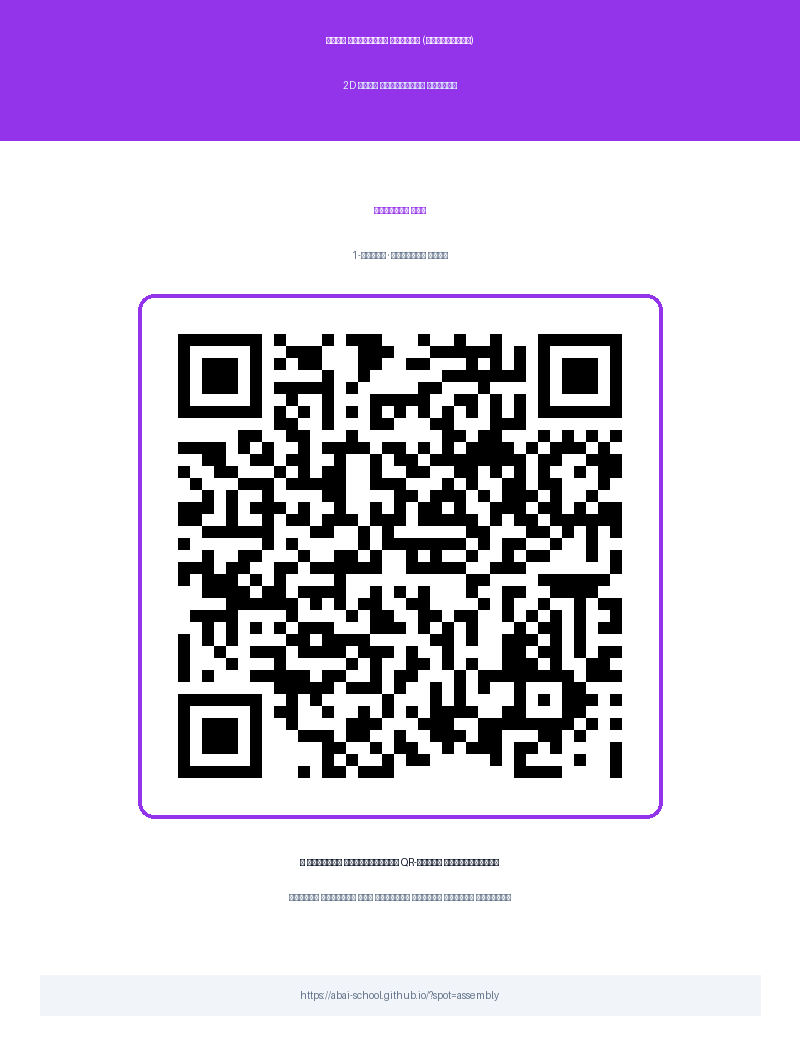
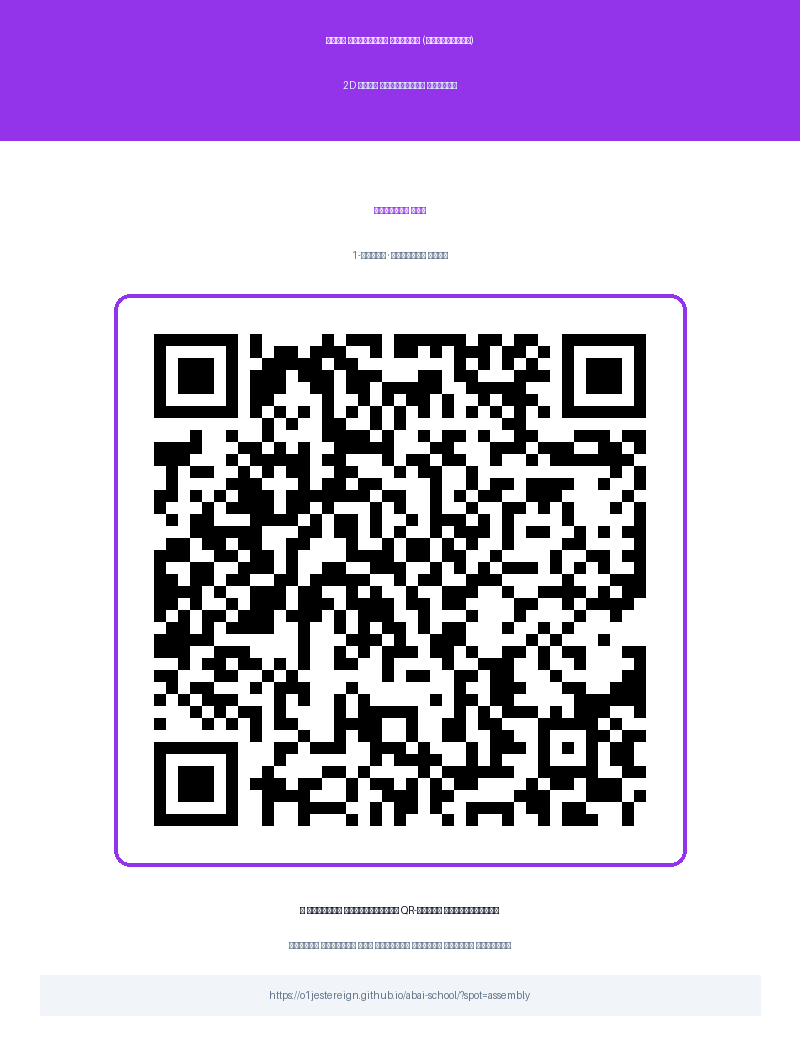
chore: update live QR codes with https://o1jestereign.github.io/abai-school/

Changed region(s): [[0.125, 0.2743, 0.875, 0.9143], [0.375, 0.9448, 0.625, 0.9752]]

diff --git a/qr_generator.html b/qr_generator.html
@@ -340,9 +340,9 @@
     // Determine current default URL
     const curOrigin = window.location.origin;
     const curPath = window.location.pathname.replace(/\/[^/]*$/, '/');
-    let defaultBase = curOrigin.startsWith('http') 
+    let defaultBase = curOrigin.startsWith('http') && !curOrigin.includes('localhost')
       ? (curOrigin + curPath) 
-      : 'https://abai-school.github.io/';
+      : 'https://o1jestereign.github.io/abai-school/';
     if (!defaultBase.endsWith('/')) defaultBase += '/';
 
     const inputUrl = document.getElementById('base-url');
